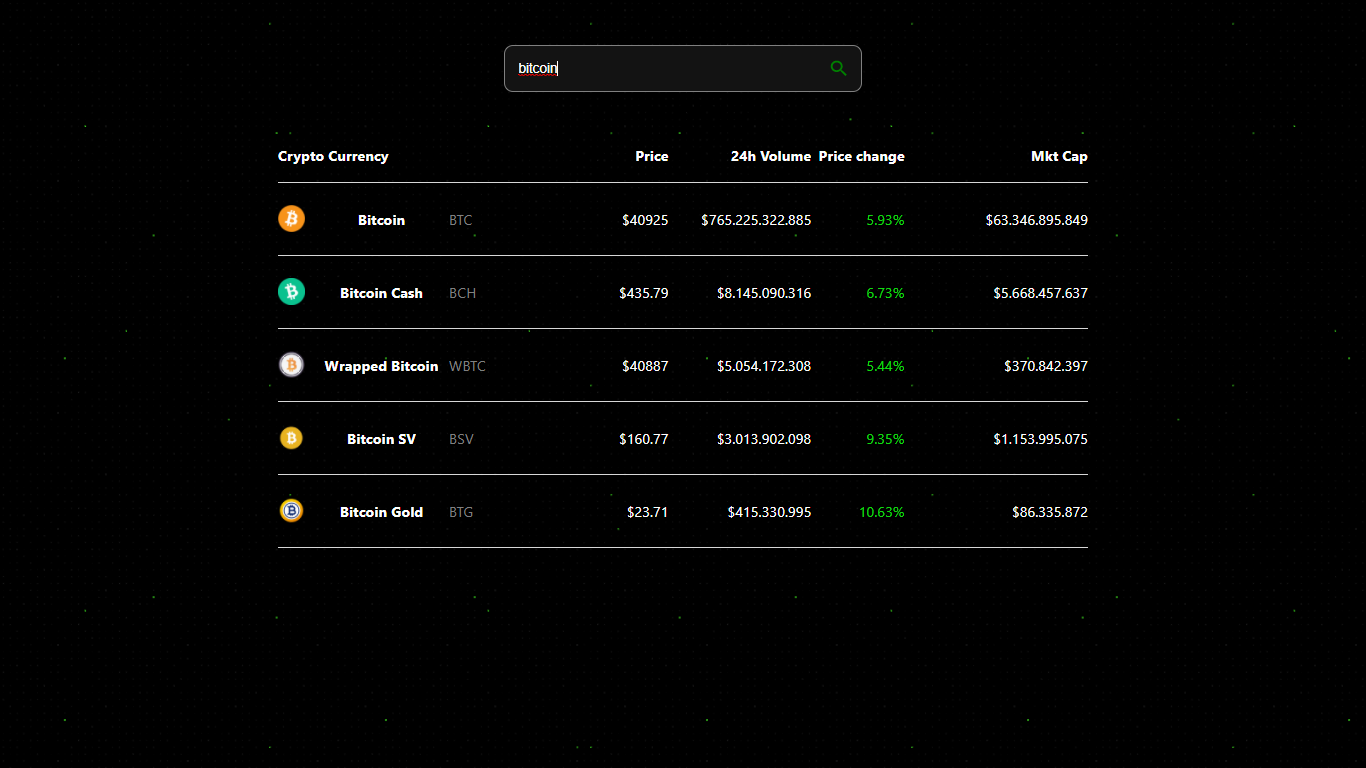
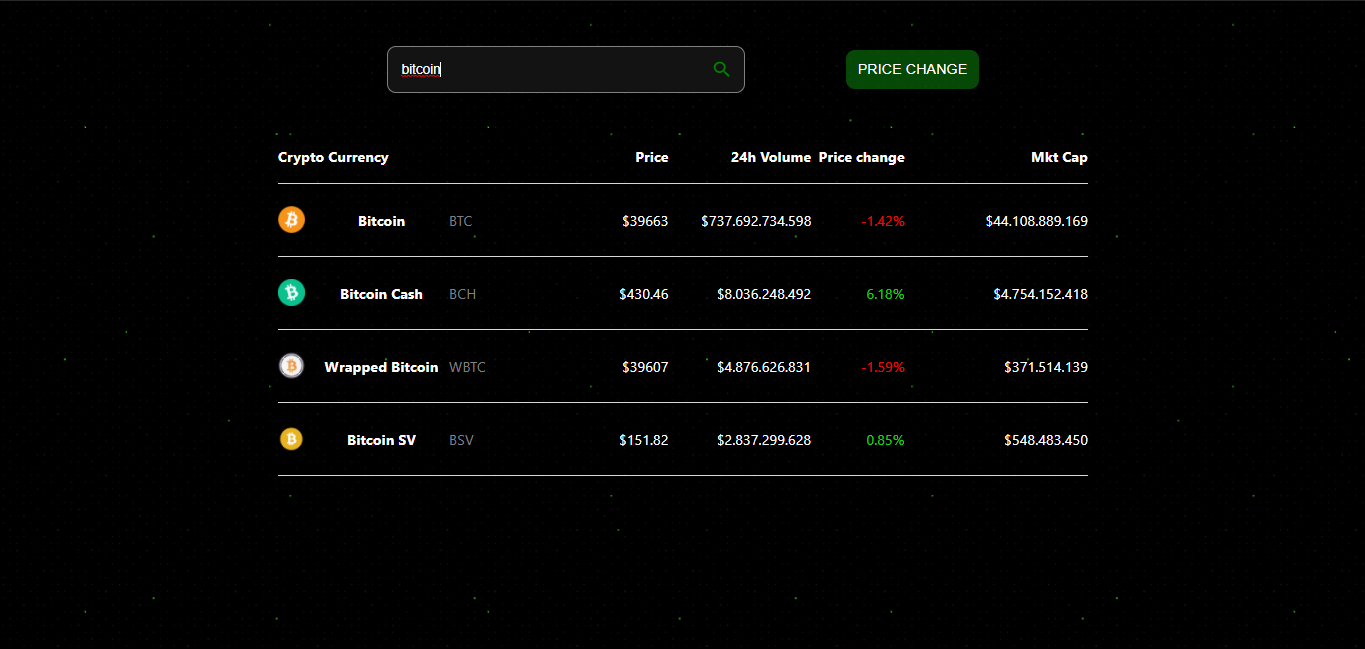
filter price change

diff --git a/pricetracker/src/Components/home.js b/pricetracker/src/Components/home.js
@@ -5,6 +5,8 @@ import Search from "./search";
 
 const Home = () => {
   const [data, setData] = useState([]);
+  const [open, setOpen] = useState(false);
+  const [filtered, setFiltered] = useState(data);
   const [search, setSearch] = useState("");
   useEffect(() => {
     axios
@@ -18,13 +20,45 @@ const Home = () => {
       .catch((err) => console.log(err));
   }, []);
 
-  const filteredData = data.filter((el) =>
-    el.name.toLowerCase().includes(search.toLowerCase())
-  );
+  useEffect(() => {
+    setFiltered(
+      data.filter((el) => el.name.toLowerCase().includes(search.toLowerCase()))
+    );
+  }, [search, data]);
 
+  const handlePositive = () => {
+    setFiltered(data.filter((el) => el.price_change_percentage_24h > 0));
+    setOpen(false);
+  };
+  const handleNegative = () => {
+    setFiltered(data.filter((el) => el.price_change_percentage_24h < 0));
+    setOpen(false);
+  };
+  const handleReset = () => {
+    setFiltered(data);
+    setOpen(false);
+  };
+  const handleOpen = () => {
+    setOpen(!open);
+  };
   return (
     <div className="home">
-      <Search setSearch={setSearch} />
+      <div className="filterandsearch">
+        <Search setSearch={setSearch} />
+
+        <div className="dropdown">
+          <button onClick={handleOpen} className="dropbtn">
+            PRICE CHANGE
+          </button>
+          {open ? (
+            <div id="myDropdown" className="dropdown-content">
+              <button onClick={handlePositive}>Positive change</button>
+              <button onClick={handleNegative}>Negative change</button>
+              <button onClick={handleReset}>Reset</button>
+            </div>
+          ) : null}
+        </div>
+      </div>
 
       <div className="container">
         <div className="row x">
@@ -34,15 +68,13 @@ const Home = () => {
           <div className="data2">
             <p className="price">Price</p>
             <p className="volume">24h Volume</p>
-
             <p className="percent">Price change</p>
-
             <p className="marketcap">Mkt Cap</p>
           </div>
         </div>
       </div>
       <div className="data">
-        {filteredData.map((el, index) => (
+        {filtered.map((el, index) => (
           <Currency
             key={el.id}
             name={el.name}

diff --git a/pricetracker/src/index.css b/pricetracker/src/index.css
@@ -120,3 +120,46 @@ input:focus {
 .green {
   color: #11d811;
 }
+.filterandsearch {
+  display: flex;
+  justify-content: center;
+  align-items: center;
+}
+.dropbtn {
+  background-color: #11d81156;
+  border-radius: 10px;
+  color: white;
+  padding: 13px;
+  font-size: 16px;
+  border: none;
+  cursor: pointer;
+  margin-left: 56px;
+  margin-top: 10px;
+}
+.dropbtn:focus {
+  outline: none;
+}
+.dropdown {
+  position: relative;
+  display: inline-block;
+  margin-left: 56px;
+}
+
+.dropdown-content {
+  display: flex;
+  flex-direction: column;
+  position: absolute;
+  min-width: 150px;
+  margin-left: 56px;
+}
+
+.dropdown-content button {
+  padding: 5px;
+  font-size: 15px;
+  background-color: rgb(27, 27, 27);
+  color: white;
+  cursor: pointer;
+}
+.dropdown-content button:hover {
+  background-color: rgb(77, 80, 76);
+}

diff --git a/README.md b/README.md
@@ -5,8 +5,9 @@ All of the data is fetched using a [public API.](https://www.coingecko.com/en/ap
 Also, it's possible to filter data using a search bar.
 
 <p float="left">
-<img src="images/home.png" width="300">
-<img src="images/search.png" width="300">
+<img src="images/home.png" width="400">
+<img src="images/search.png" width="400">
+<img src="images/filter.png" width="400">
 </p>
 
 ## Built with
